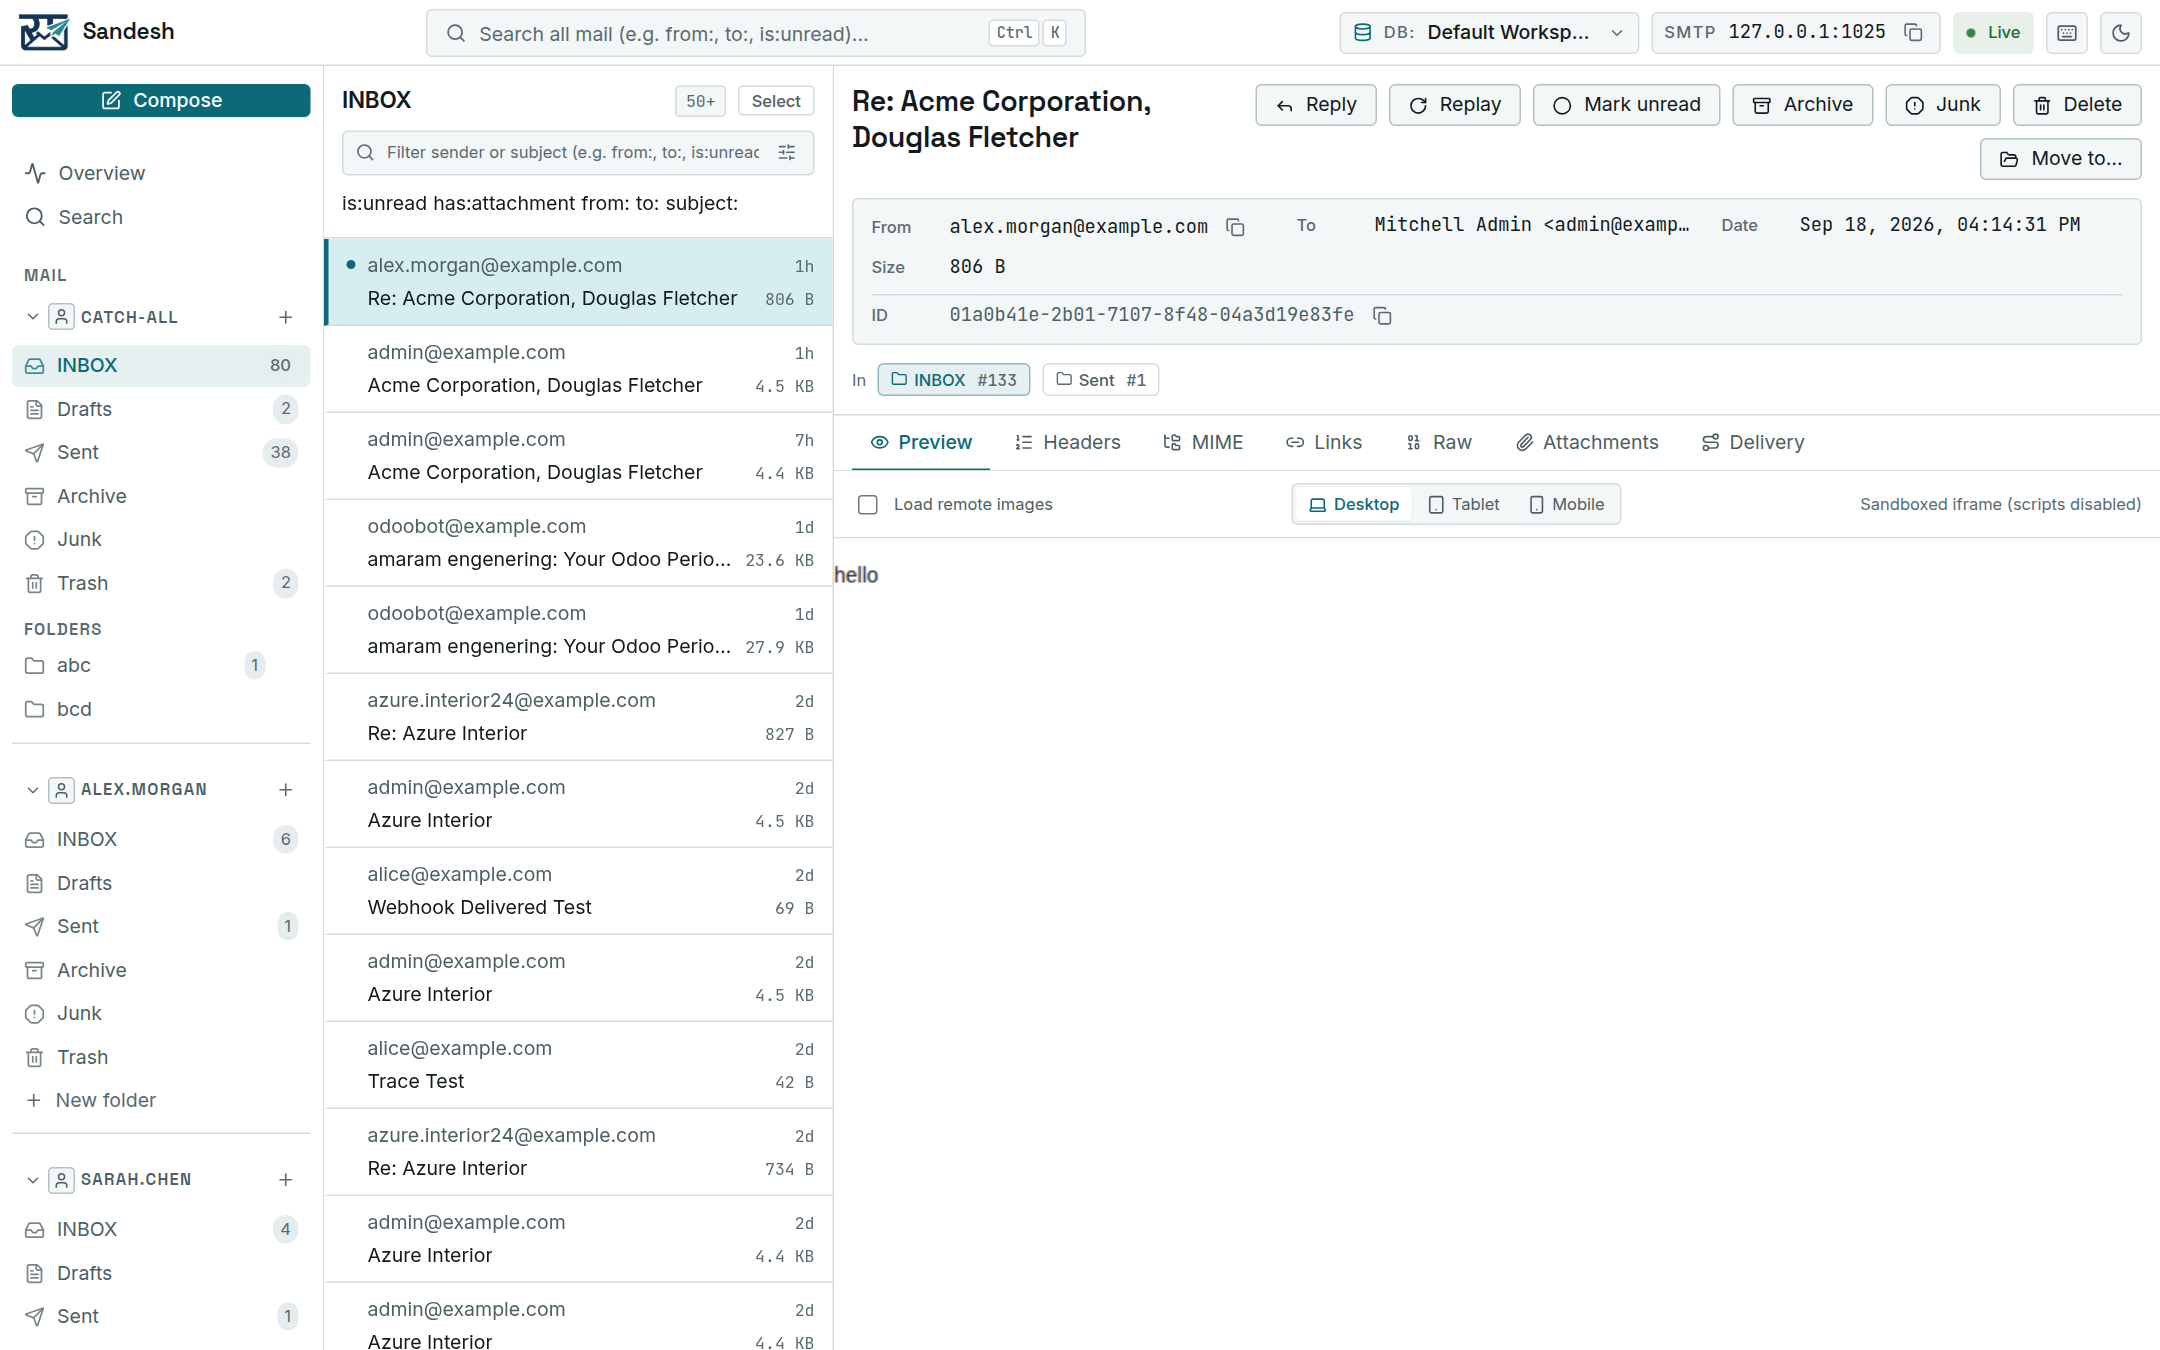
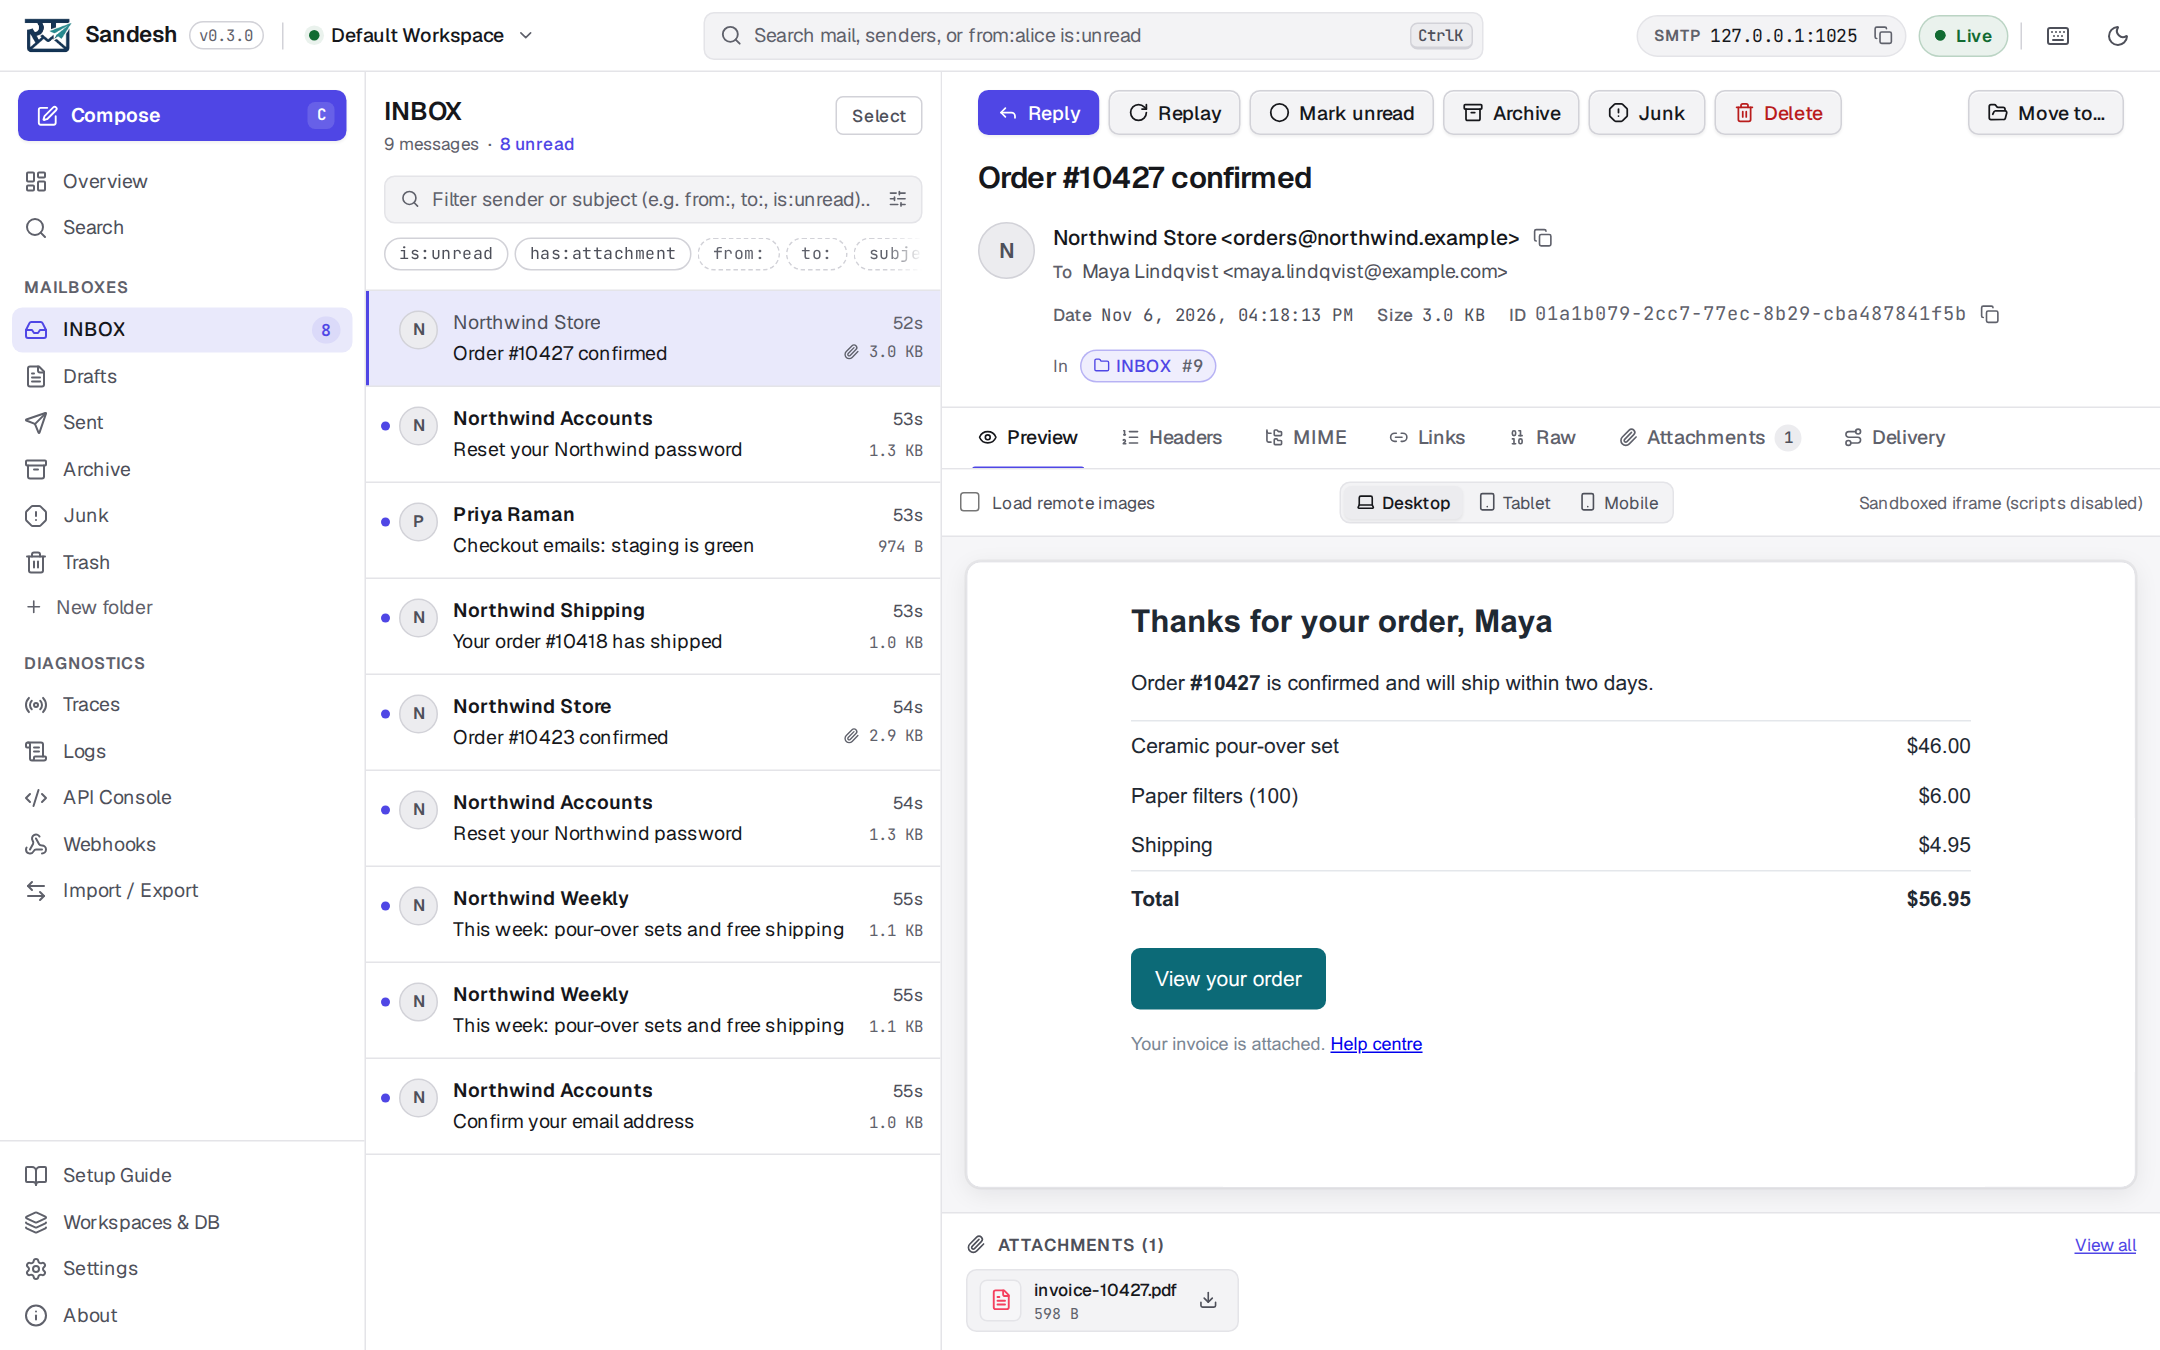
docs: refresh site and manual screenshots for v0.3.0
The project website and the user manual still showed the console from
before the Devtools Precision and dev-tool restyles. Re-capture the
overview, message inspector and traces screenshots from a v0.3.0 build
at the same 2160x1350 size, seeded with example-domain mail (RFC 2606),
and update the two manual alt texts that named tabs and panels the
console no longer has.

diff --git a/docs/MASTER_USER_MANUAL.md b/docs/MASTER_USER_MANUAL.md
@@ -560,7 +560,7 @@ The sidebar is always visible on desktop. On mobile it slides in as a drawer.
 
 ### 3.1 Overview Page
 
-![Overview Page: Three panels — Send mail here, Status metrics, Recent messages](images/overview-page.png)
+![Overview Page: Send mail here with the protocol addresses and an SMTP snippet, status tiles, and recent messages](images/overview-page.png)
 
 **Purpose:** The landing page. Answers: *Where do I send mail? Is Sandesh healthy? What just arrived?*
 
@@ -653,7 +653,7 @@ The sidebar is always visible on desktop. On mobile it slides in as a drawer.
 
 ### 3.3 Message Inspector
 
-![Message Inspector: Tab bar with Headers, Body, MIME, Raw, Transcript, Links, Attachments](images/message-inspector-tabs.png)
+![Message Inspector: Action toolbar, sender block, and tabs for Preview, Headers, MIME, Links, Raw, Attachments and Delivery](images/message-inspector-tabs.png)
 
 **Purpose:** A complete diagnostic view of a single email, accessible from multiple angles via tabs.
 
